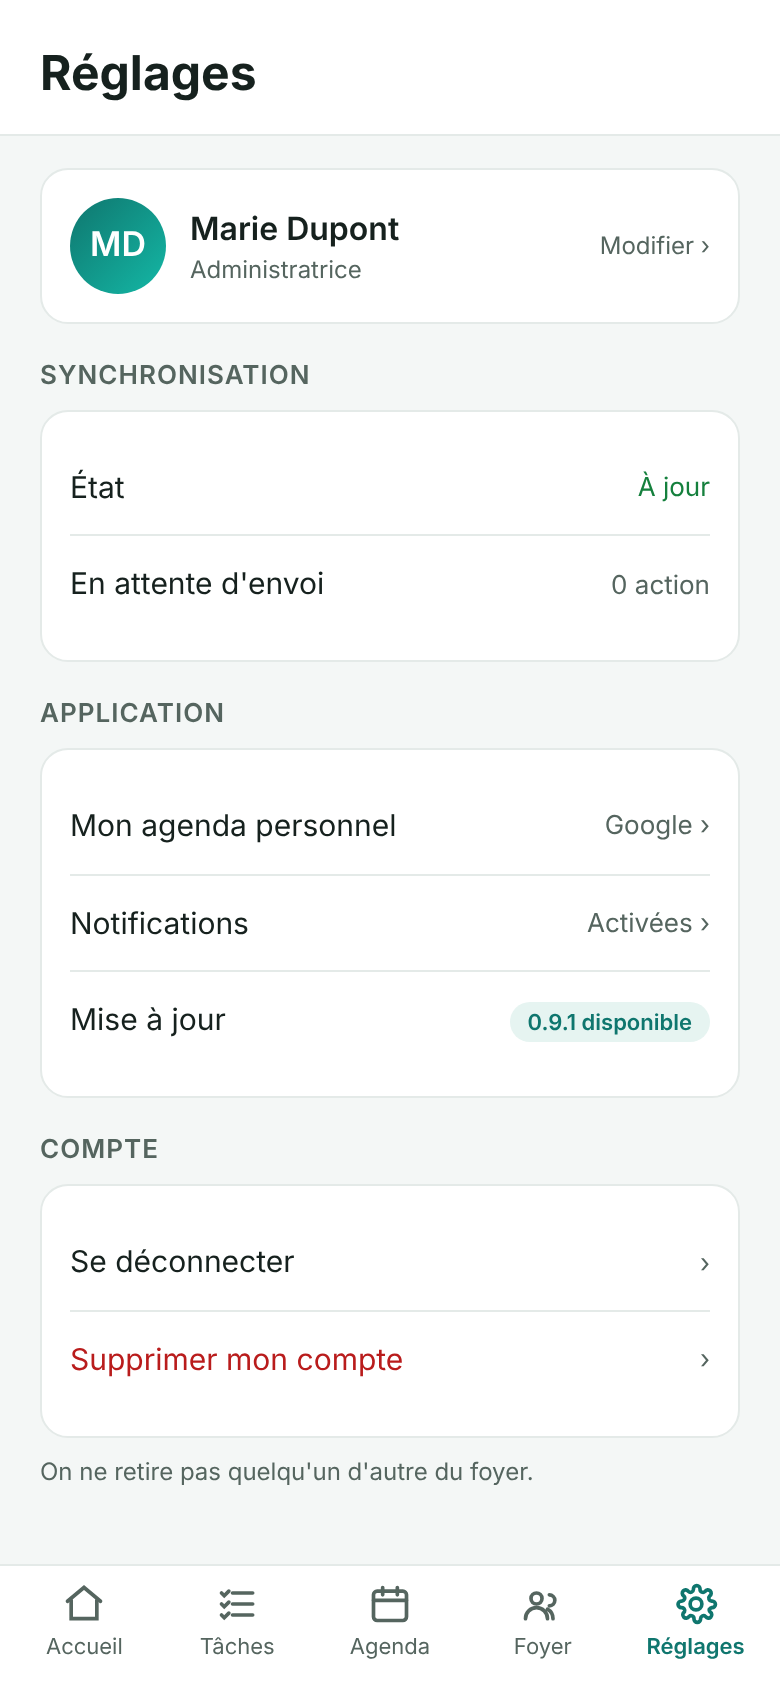
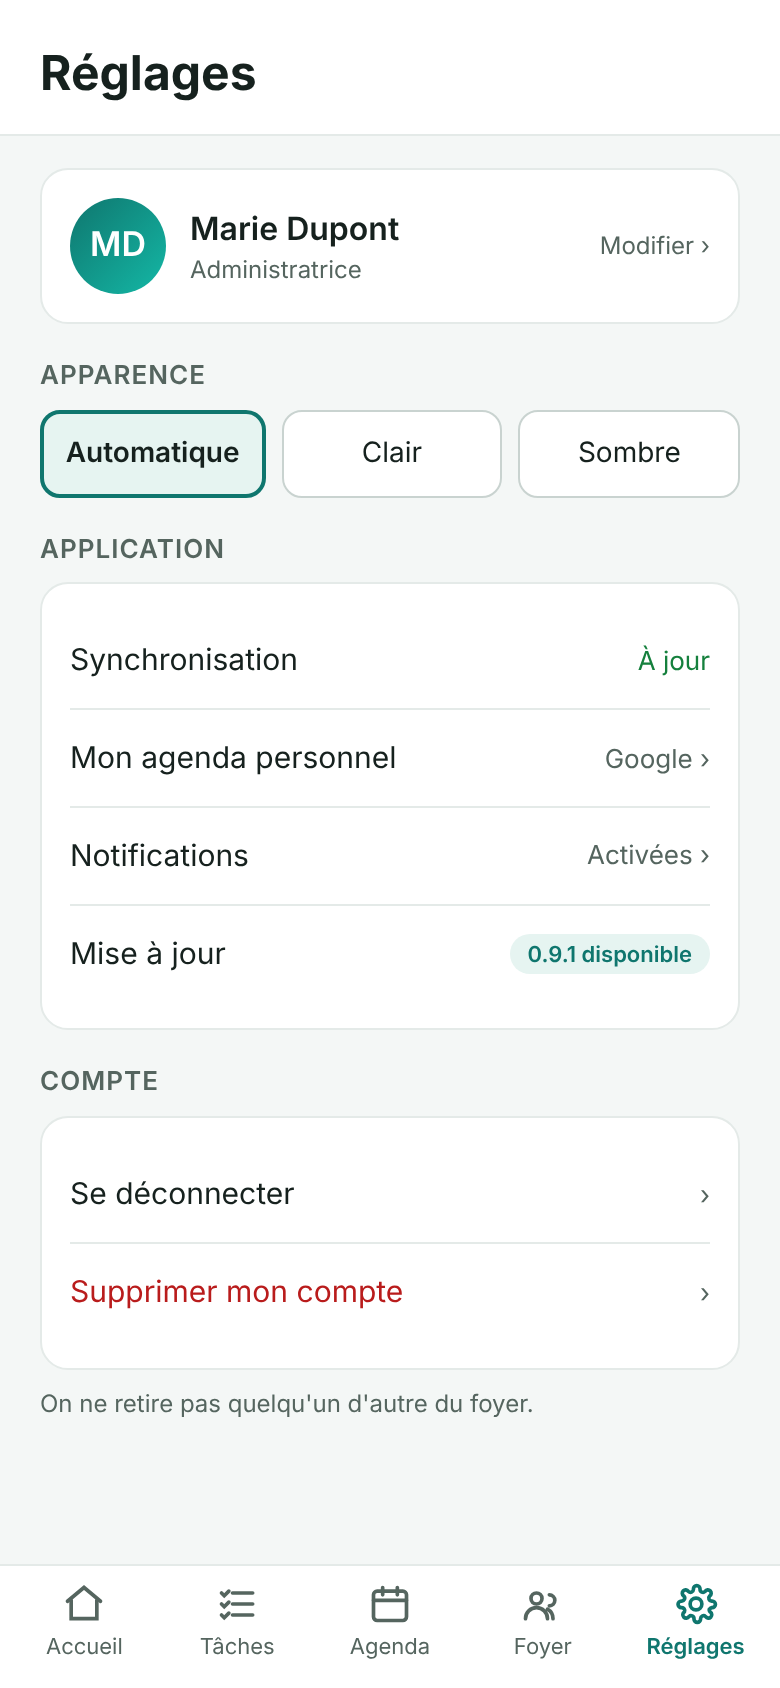
fix(app): écran de départ lisible en thème sombre et hors des barres système
L'écran de première ouverture vivait hors du Scaffold, sans Surface :
il se dessinait sur le fond clair de la fenêtre avec l'encre claire du
thème sombre, et passait sous la barre d'état et sous le clavier.
Le fond de lancement suit aussi le thème sombre (values-night).

Maquette : choix du thème (automatique, clair, sombre) dans Réglages.

Claude-Session: https://claude.ai/code/session_01CwM8UZavZyFdh7jkANxEp5

diff --git a/app/src/main/kotlin/org/myhousehold/app/ui/demarrage/EcranPremiereOuverture.kt b/app/src/main/kotlin/org/myhousehold/app/ui/demarrage/EcranPremiereOuverture.kt
@@ -5,6 +5,7 @@ import androidx.compose.foundation.layout.Column
 import androidx.compose.foundation.layout.fillMaxSize
 import androidx.compose.foundation.layout.fillMaxWidth
 import androidx.compose.foundation.layout.padding
+import androidx.compose.foundation.layout.safeDrawingPadding
 import androidx.compose.foundation.rememberScrollState
 import androidx.compose.foundation.text.KeyboardOptions
 import androidx.compose.foundation.verticalScroll
@@ -13,6 +14,7 @@ import androidx.compose.material3.Card
 import androidx.compose.material3.CardDefaults
 import androidx.compose.material3.MaterialTheme
 import androidx.compose.material3.OutlinedTextField
+import androidx.compose.material3.Surface
 import androidx.compose.material3.Text
 import androidx.compose.runtime.Composable
 import androidx.compose.runtime.getValue
@@ -41,75 +43,82 @@ fun EcranPremiereOuverture(
     var prenom by remember { mutableStateOf("") }
     var nom by remember { mutableStateOf("") }
 
-    Column(
-        modifier = modifier
-            .fillMaxSize()
-            .verticalScroll(rememberScrollState())
-            .padding(24.dp),
-        verticalArrangement = Arrangement.spacedBy(16.dp),
-    ) {
-        Text("Bienvenue", style = MaterialTheme.typography.headlineLarge)
-        Text(
-            "MyHousehold s’utilise seul. Un serveur, plus tard, servira à partager " +
-                "ce foyer avec les autres — il n’est pas nécessaire pour commencer.",
-            style = MaterialTheme.typography.bodyMedium,
-            color = MaterialTheme.colorScheme.onSurfaceVariant,
-        )
-
-        OutlinedTextField(
-            value = nomDuFoyer,
-            onValueChange = { nomDuFoyer = it },
-            label = { Text("Nom du foyer") },
-            placeholder = { Text("Maison des Dupont") },
-            singleLine = true,
-            keyboardOptions = KeyboardOptions(imeAction = ImeAction.Next),
-            modifier = Modifier.fillMaxWidth(),
-        )
-
-        OutlinedTextField(
-            value = prenom,
-            onValueChange = { prenom = it },
-            label = { Text("Votre prénom") },
-            singleLine = true,
-            keyboardOptions = KeyboardOptions(imeAction = ImeAction.Next),
-            modifier = Modifier.fillMaxWidth(),
-        )
-
-        OutlinedTextField(
-            value = nom,
-            onValueChange = { nom = it },
-            label = { Text("Votre nom") },
-            singleLine = true,
-            keyboardOptions = KeyboardOptions(imeAction = ImeAction.Done),
-            modifier = Modifier.fillMaxWidth(),
-        )
-
-        Button(
-            onClick = { onCommencerSeul(nomDuFoyer, prenom, nom) },
-            enabled = prenom.isNotBlank(),
-            modifier = Modifier.fillMaxWidth(),
+    // Cet écran vit hors du Scaffold des autres : sans Surface, il se
+    // dessinait sur le fond clair de la fenêtre avec l'encre claire du
+    // thème sombre — texte invisible. Et sans les marges des barres
+    // système, il passait sous l'heure et sous le clavier.
+    Surface(modifier = modifier.fillMaxSize(), color = MaterialTheme.colorScheme.background) {
+        Column(
+            modifier = Modifier
+                .fillMaxSize()
+                .safeDrawingPadding()
+                .verticalScroll(rememberScrollState())
+                .padding(24.dp),
+            verticalArrangement = Arrangement.spacedBy(16.dp),
         ) {
-            Text("Commencer")
-        }
+            Text("Bienvenue", style = MaterialTheme.typography.headlineLarge)
+            Text(
+                "MyHousehold s’utilise seul. Un serveur, plus tard, servira à partager " +
+                    "ce foyer avec les autres — il n’est pas nécessaire pour commencer.",
+                style = MaterialTheme.typography.bodyMedium,
+                color = MaterialTheme.colorScheme.onSurfaceVariant,
+            )
 
-        // On ne promet pas ce qui n'existe pas encore : les deux autres
-        // chemins des maquettes arrivent avec la connexion au serveur.
-        Card(
-            colors = CardDefaults.cardColors(
-                containerColor = MaterialTheme.colorScheme.surfaceVariant,
-            ),
-            modifier = Modifier.fillMaxWidth(),
-        ) {
-            Column(modifier = Modifier.padding(16.dp)) {
-                Text("Rejoindre un foyer existant", style = MaterialTheme.typography.titleMedium)
-                Text(
-                    "Avec un code d’invitation, ou en connectant le serveur de la maison. " +
-                        "Cela arrive dans une prochaine version : ce que vous ferez d’ici là " +
-                        "sera repris, rien ne sera perdu.",
-                    style = MaterialTheme.typography.bodyMedium,
-                    color = MaterialTheme.colorScheme.onSurfaceVariant,
-                    modifier = Modifier.padding(top = 4.dp),
-                )
+            OutlinedTextField(
+                value = nomDuFoyer,
+                onValueChange = { nomDuFoyer = it },
+                label = { Text("Nom du foyer") },
+                placeholder = { Text("Maison des Dupont") },
+                singleLine = true,
+                keyboardOptions = KeyboardOptions(imeAction = ImeAction.Next),
+                modifier = Modifier.fillMaxWidth(),
+            )
+
+            OutlinedTextField(
+                value = prenom,
+                onValueChange = { prenom = it },
+                label = { Text("Votre prénom") },
+                singleLine = true,
+                keyboardOptions = KeyboardOptions(imeAction = ImeAction.Next),
+                modifier = Modifier.fillMaxWidth(),
+            )
+
+            OutlinedTextField(
+                value = nom,
+                onValueChange = { nom = it },
+                label = { Text("Votre nom") },
+                singleLine = true,
+                keyboardOptions = KeyboardOptions(imeAction = ImeAction.Done),
+                modifier = Modifier.fillMaxWidth(),
+            )
+
+            Button(
+                onClick = { onCommencerSeul(nomDuFoyer, prenom, nom) },
+                enabled = prenom.isNotBlank(),
+                modifier = Modifier.fillMaxWidth(),
+            ) {
+                Text("Commencer")
+            }
+
+            // On ne promet pas ce qui n'existe pas encore : les deux autres
+            // chemins des maquettes arrivent avec la connexion au serveur.
+            Card(
+                colors = CardDefaults.cardColors(
+                    containerColor = MaterialTheme.colorScheme.surfaceVariant,
+                ),
+                modifier = Modifier.fillMaxWidth(),
+            ) {
+                Column(modifier = Modifier.padding(16.dp)) {
+                    Text("Rejoindre un foyer existant", style = MaterialTheme.typography.titleMedium)
+                    Text(
+                        "Avec un code d’invitation, ou en connectant le serveur de la maison. " +
+                            "Cela arrive dans une prochaine version : ce que vous ferez d’ici là " +
+                            "sera repris, rien ne sera perdu.",
+                        style = MaterialTheme.typography.bodyMedium,
+                        color = MaterialTheme.colorScheme.onSurfaceVariant,
+                        modifier = Modifier.padding(top = 4.dp),
+                    )
+                }
             }
         }
     }

diff --git a/docs/mockups/7-reglages.html b/docs/mockups/7-reglages.html
@@ -16,16 +16,16 @@
     </div>
 
     <div class="section">
-      <h2>Synchronisation</h2>
-      <div class="carte">
-        <div class="reglage"><span>État</span><span class="valeur" style="color:var(--succes)">À jour</span></div>
-        <div class="reglage"><span>En attente d'envoi</span><span class="valeur">0 action</span></div>
-      </div>
+      <h2>Apparence</h2>
+      <!-- Automatique suit le réglage du téléphone : c'est le défaut,
+           et le seul choix qu'on n'a jamais à regretter. -->
+      <div class="segment" style="min-height:0"><span class="actif">Automatique</span><span>Clair</span><span>Sombre</span></div>
     </div>
 
     <div class="section">
       <h2>Application</h2>
       <div class="carte">
+        <div class="reglage"><span>Synchronisation</span><span class="valeur" style="color:var(--succes)">À jour</span></div>
         <div class="reglage"><span>Mon agenda personnel</span><span class="valeur">Google ›</span></div>
         <div class="reglage"><span>Notifications</span><span class="valeur">Activées ›</span></div>
         <div class="reglage">
